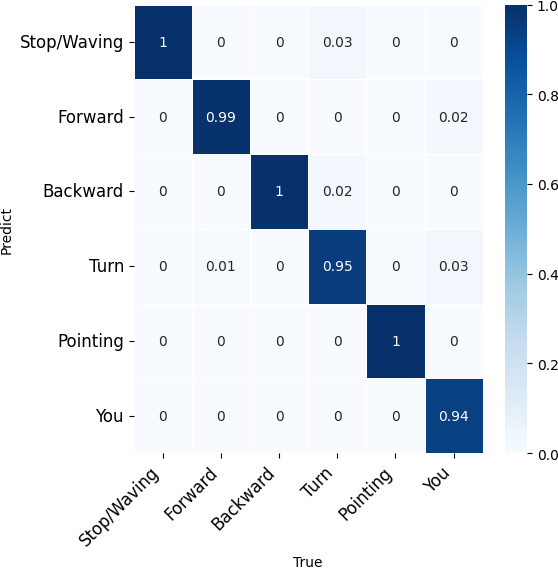
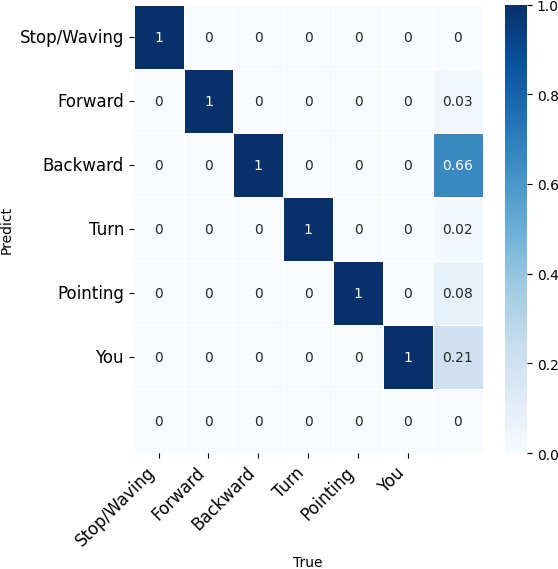
Include background

diff --git a/Predict/cm_Integrated.py b/Predict/cm_Integrated.py
@@ -33,8 +33,8 @@ def calculate_angle_arm(a, b, c):
 model_pose = YOLO("yolov8m-pose")
 model_hands = YOLO("240502.pt")
 
-source_folder = r"C:\Users\eofeh\Desktop\Model(dataset)\test dataset(images)"
-folder_path  = r"C:\Users\eofeh\Desktop\Model(dataset)\test dataset(labels)"
+source_folder = r"C:\Users\eofeh\Desktop\Model\datasets\valid\images"
+folder_path  = r"C:\Users\eofeh\Desktop\Model\datasets\valid\labels"
 target_folder = os.path.join(source_folder, '../Confusion_predict')
 
 # 대상 폴더가 없으면 생성
@@ -92,6 +92,7 @@ for subdir, dirs, files in os.walk(source_folder):
             count_gesture=0
 
             box_cx, box_cy = None, None  # predict box
+            box_pose_cx, box_pose_cy = None, None  # predict box
             
             results_hands = model_hands(color_image, conf=0.8, verbose=False)  # Predict hands
             hands = 'N'
@@ -125,6 +126,10 @@ for subdir, dirs, files in os.walk(source_folder):
             if results_pose is not None:
                 for r in results_pose:
                     keypoints = r.keypoints
+                    pose_boxes = r.boxes
+                    b = box.xyxy[0].to('cpu').detach().numpy().copy()
+                    x1, y1, x2, y2 = map(int, b[:4])
+                    
                     for i, k in enumerate(keypoints):
                         if k.xy[0].size(0) > 6:  # Ensure there are enough elements
                             coordinate_pose[0] = k.xy[0][6].cpu().numpy()
@@ -162,6 +167,9 @@ for subdir, dirs, files in os.walk(source_folder):
                             active_hands = 'LEFT'
                             angle_arm = calculate_angle_arm(
                                 coordinate_pose[3], coordinate_pose[4], coordinate_pose[5])
+                    if box_cx is not None and box_cy is not None:
+                        if(box_cy<y1 or box_cy>y2 or box_cx<x1 or box_cx>x2):
+                            gesture=6
                             
             conditions = {
                 0: lambda angle_arm: angle_arm > 0 and angle_arm < 180,
@@ -182,15 +190,18 @@ for subdir, dirs, files in os.walk(source_folder):
             
 pred_labels = np.array(gestures)  # 모델과 post-processing을 통해 얻은 예측 결과
 true_labels = np.array(labels)
+
 # with open('predict.txt', 'w') as file:
 #     for number in pred_labels:
 #         file.write(str(number) + '\n')
 # with open('true.txt', 'w') as file:
 #     for number in true_labels:
 #         file.write(str(number) + '\n')
+
 # print(pred_labels)
 # print(true_labels)
-cm = confusion_matrix(true_labels, pred_labels, labels=[0,3,4,2,5,1])
+# cm = confusion_matrix(true_labels, pred_labels, labels=[0,3,4,2,5,1])
+cm = confusion_matrix(true_labels, pred_labels)
 
 # 결과 출력
 print(cm)

diff --git a/Predict/cm_hands.py b/Predict/cm_hands.py
@@ -6,11 +6,12 @@ import matplotlib.pyplot as plt
 from ultralytics import YOLO
 
 
-dataset = sv.DetectionDataset.from_yolo(r'C:\Users\eofeh\Desktop\Model(dataset)\test dataset(images)',r'C:\Users\eofeh\Desktop\Model(dataset)\test dataset(labels)',r'C:\Users\eofeh\Desktop\Model\1.YOLOv8\yolo-combine\Train\data.yaml')
+dataset = sv.DetectionDataset.from_yolo(r'C:\Users\eofeh\Desktop\Model\datasets\valid\images',r'C:\Users\eofeh\Desktop\Model\datasets\valid\labels',r'C:\Users\eofeh\Desktop\Model\1.YOLOv8\yolo-combine\Train\data.yaml')
 
 model = YOLO(r'C:\Users\eofeh\Desktop\Model\1.YOLOv8\yolo-combine\Predict\240502.pt')
 def callback(image: np.ndarray) -> sv.Detections:
-    result = model(image, conf=0.8, verbose=False)[0]
+    # result = model(image, conf=0.8, verbose=False)[0]
+    result = model(image, verbose=False)[0]
     return sv.Detections.from_ultralytics(result)
 
 confusion_matrix = sv.ConfusionMatrix.benchmark(
@@ -25,22 +26,23 @@ confusion_matrix = sv.ConfusionMatrix.benchmark(
 # )
 classes=confusion_matrix.classes,
 # classis = ['STOP','YOU','TURN', 'FORWARD', 'BACKWARD', 'POINTING']
-cm=confusion_matrix.matrix
+# cm=confusion_matrix.matrix
+reordered_matrix=confusion_matrix.matrix
 print(classes)
 
-print(cm)
+print(reordered_matrix)
 
-cm = cm[:-1, :-1]
+# cm = cm[:-1, :-1]
 
-print(cm)
+# print(cm)
 # # 새로운 순서
-new_order = [0, 3, 4, 2, 5, 1]
+# new_order = [0, 3, 4, 2, 5, 1]
 
 # # 행렬의 행 재배열
-reordered_matrix = cm[new_order, :][:, new_order]
+# reordered_matrix = cm[new_order, :][:, new_order]
 
 # # 결과 출력
-print(reordered_matrix)
+# print(reordered_matrix)
 
 # # 각 열의 합으로 나누어 정규화
 T_1_normalized_by_columns = reordered_matrix / reordered_matrix.sum(axis=0, keepdims=True)

diff --git a/Dataset/dataset_remove_duplicate.py b/Dataset/dataset_remove_duplicate.py
@@ -2,7 +2,7 @@ import os
 from collections import defaultdict
 
 # 폴더 경로 리스트
-folders = [r'C:\Users\eofeh\Desktop\Model(dataset)\test dataset(images)',r'C:\Users\eofeh\Desktop\Model(dataset)\test dataset(labels)']
+folders = [r'C:\Users\eofeh\Desktop\Model(dataset)\4wall test(images)',r'C:\Users\eofeh\Desktop\Model(dataset)\4wall test(labels)']
 
 # 각 파일 이름(확장자 제외)이 나타난 폴더 수를 저장하는 사전
 file_name_occurrences = defaultdict(int)
